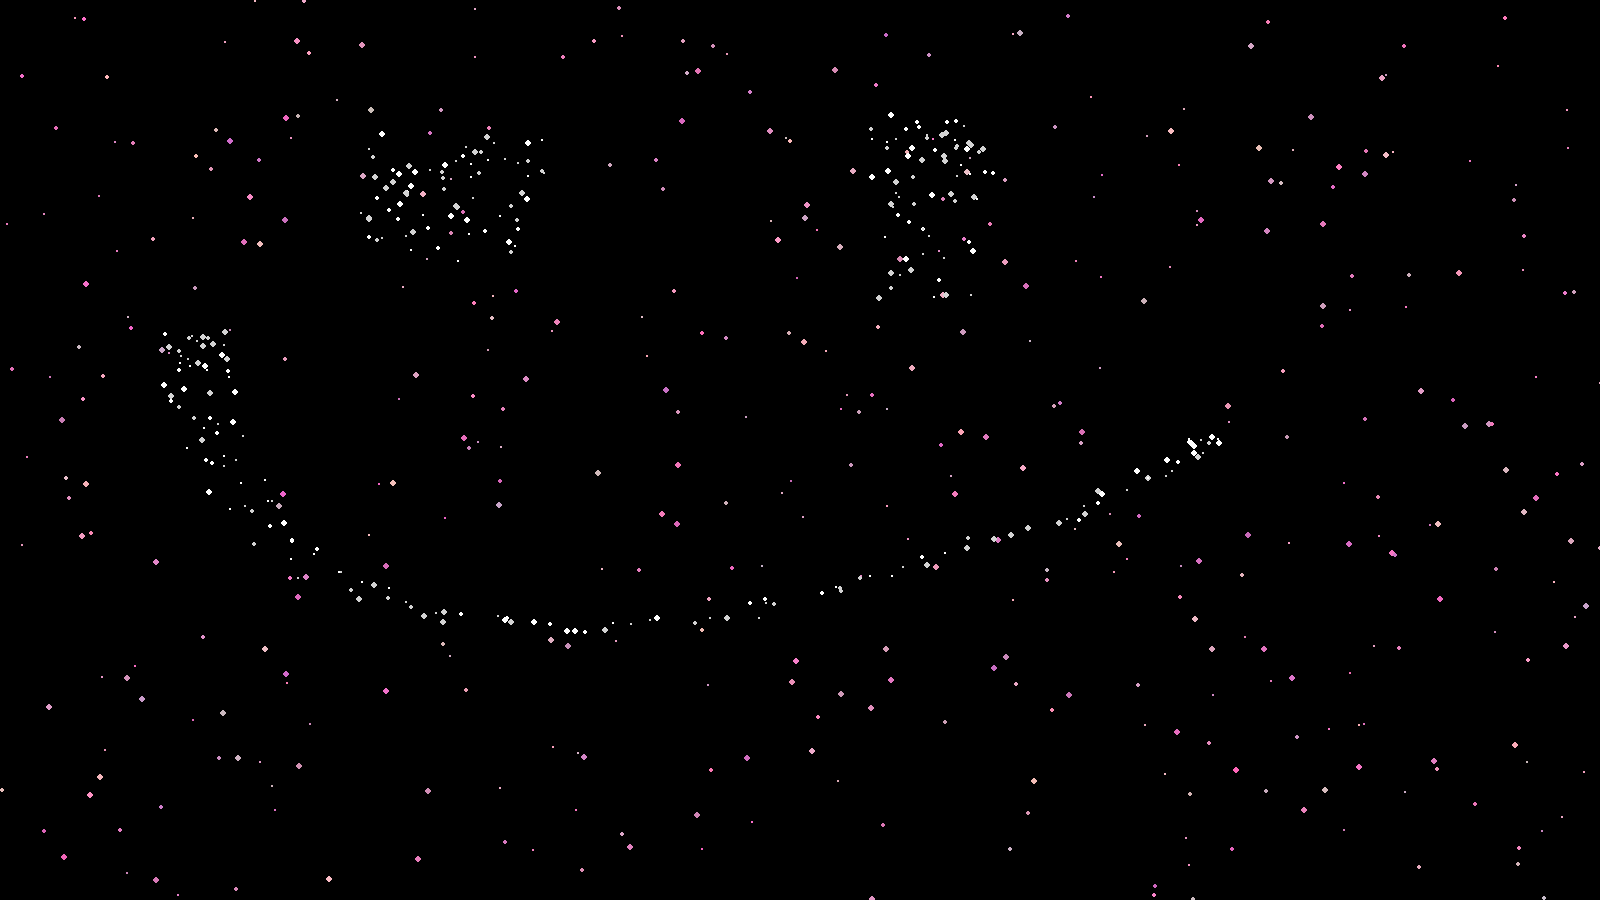
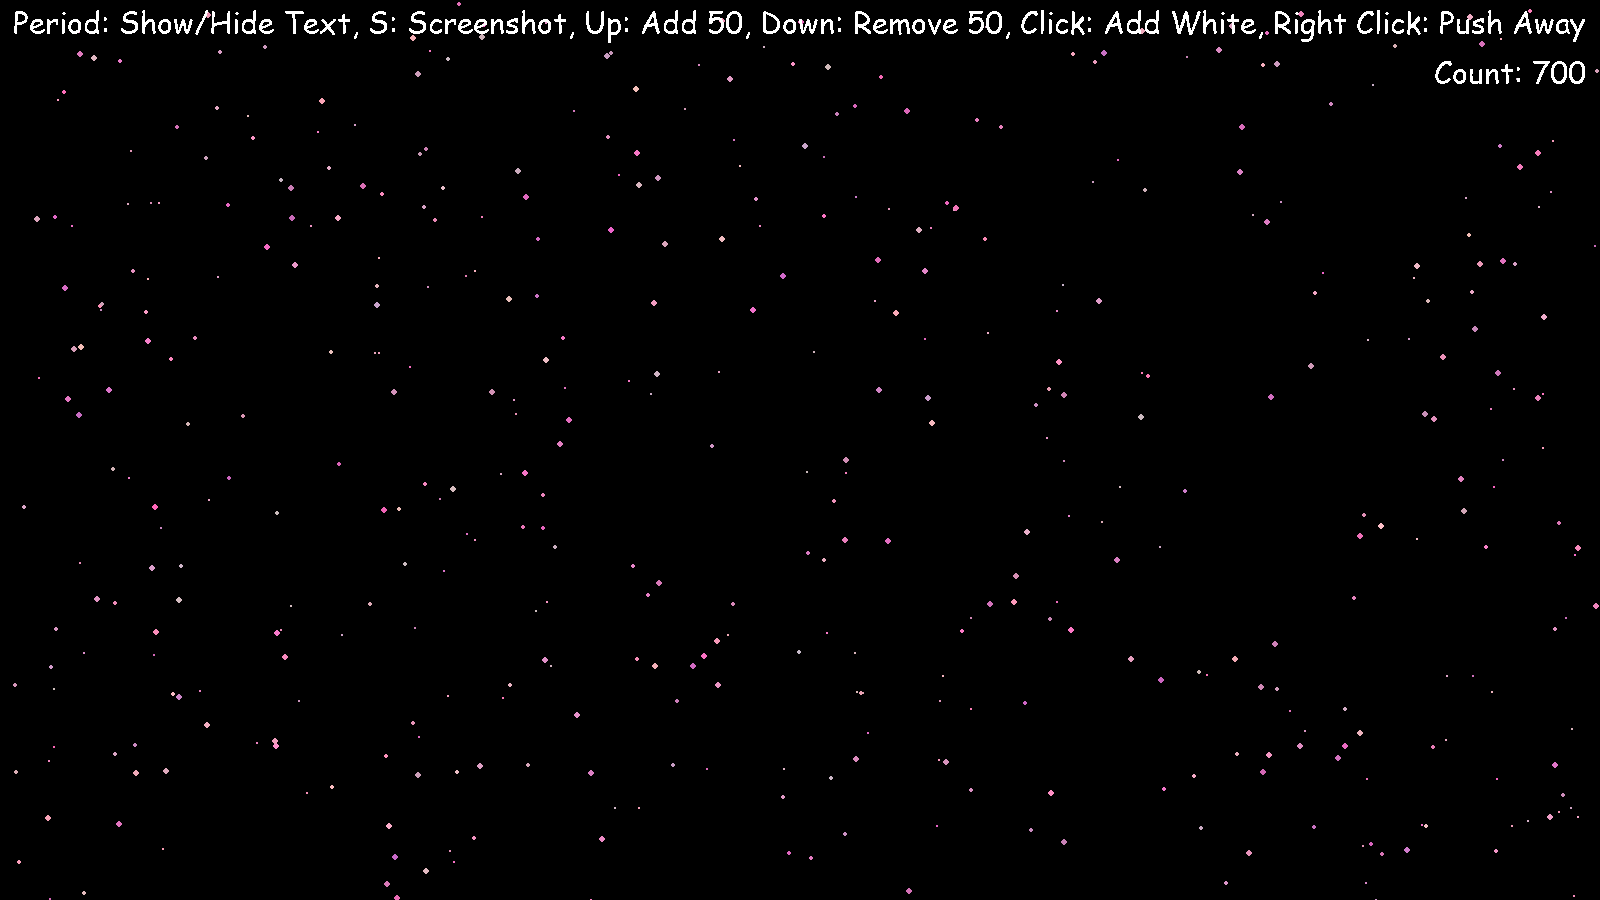
added controls and reorginized images

diff --git a/README.md b/README.md
@@ -27,6 +27,13 @@ I am aware that it is pretty laggy and it uses a lot of ram.
 
 ## Controls
 
+Period: Show/Hide Debug Info
+S: Screenshot
+Up: Add 50
+Down: Remove 50
+Click: Add White Cherry Blossoms (fun to use)
+Right Click: Push Away Cherry Blossoms
+
 ## Contributing
 
 Feel free to contribute!
